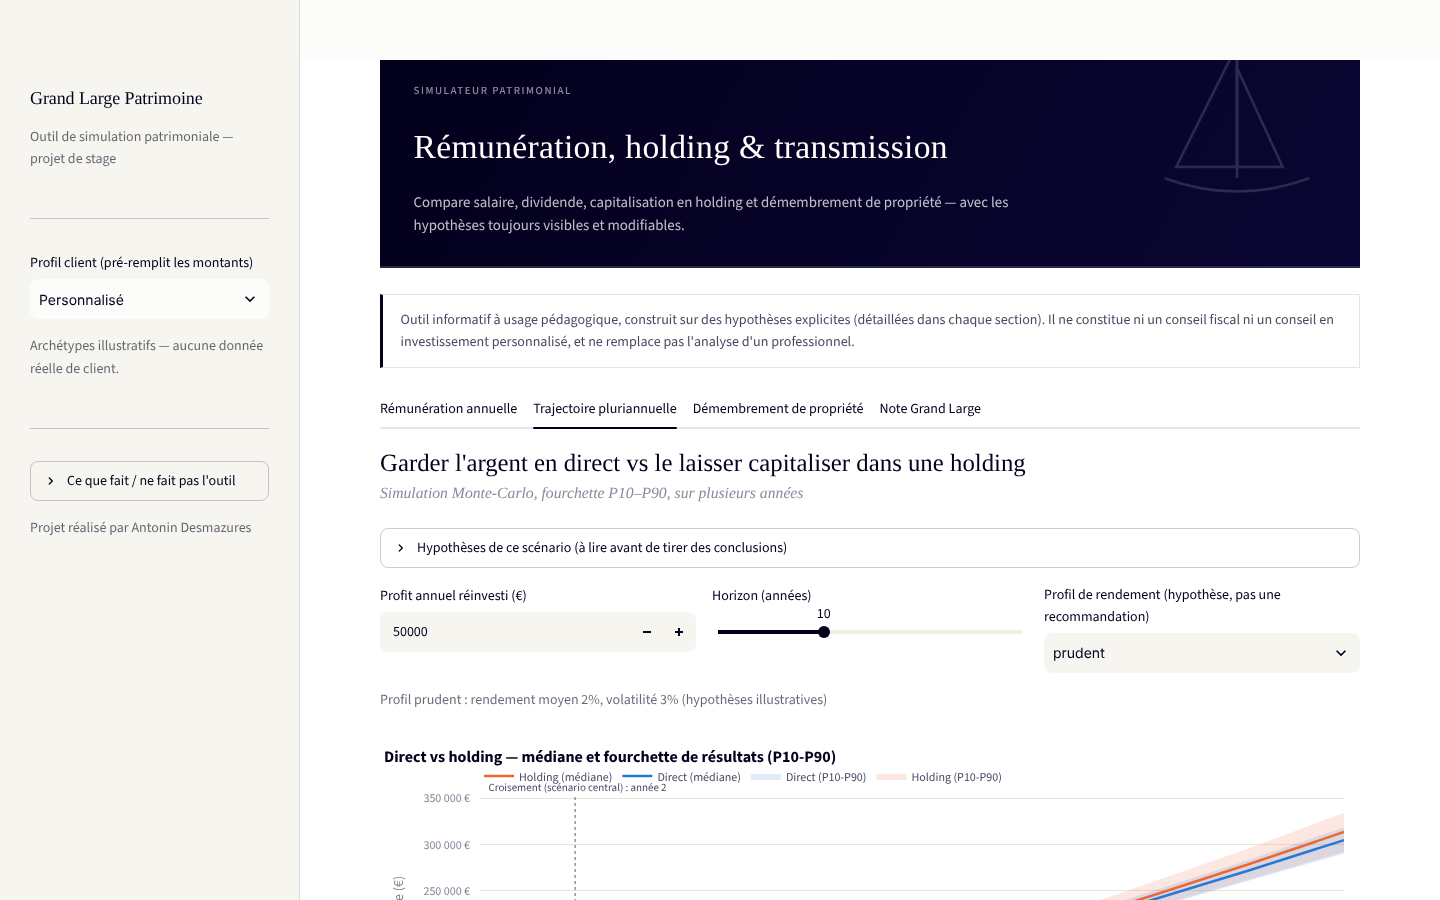
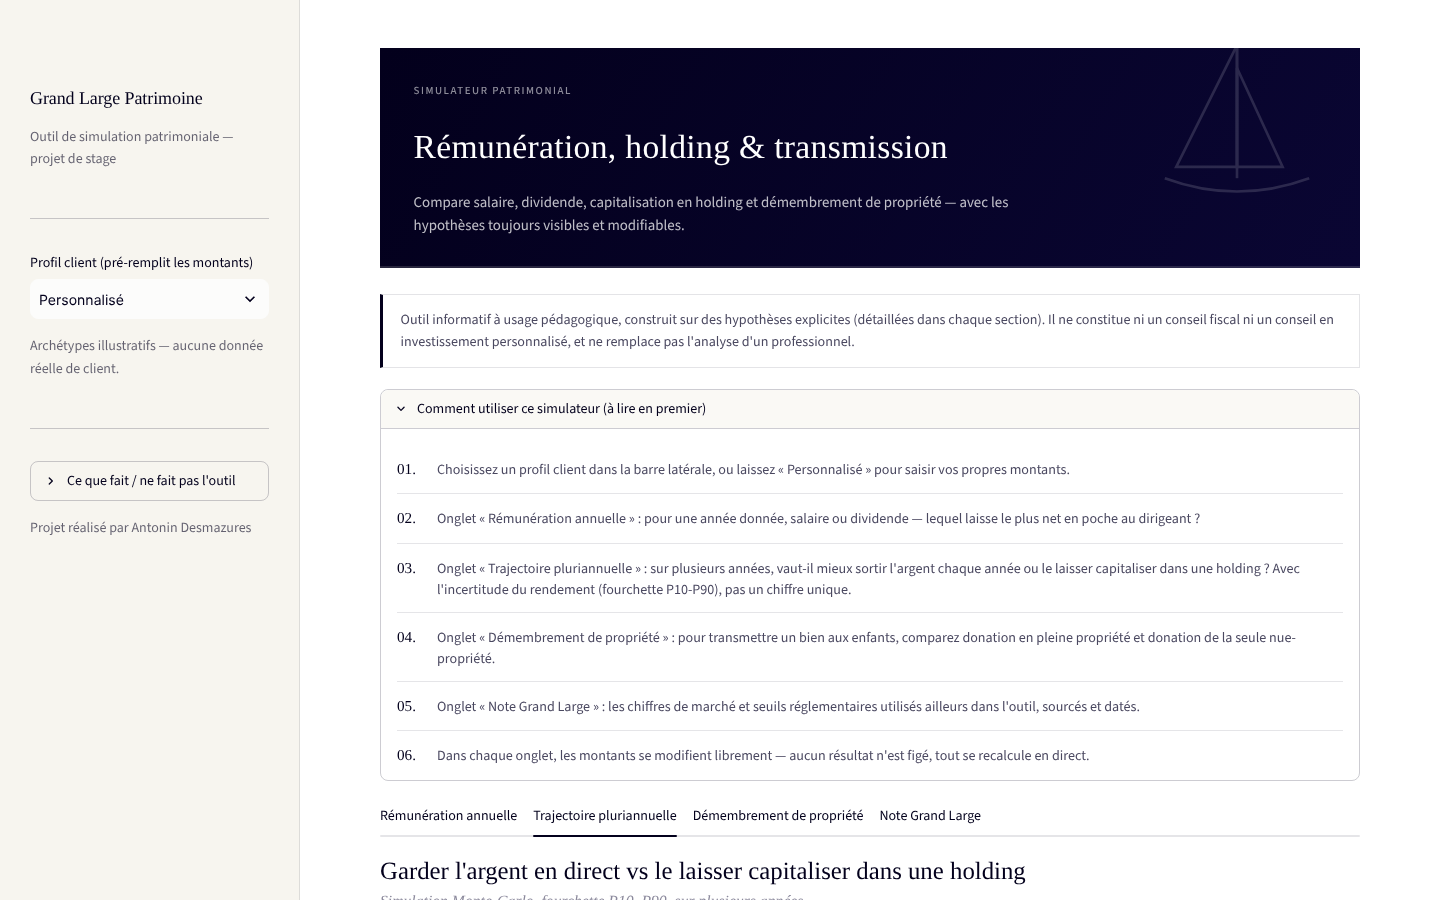
Corrige l'écart médian non formaté et le chevauchement annotation/légende ; ajoute un guide de lecture en haut de page
- fmt_euro() accepte désormais un paramètre signe (+3 787 €) : le KPI
  « Écart médian en fin d'horizon » utilisait encore un formatage brut
  Python (virgule anglo-saxonne), régression du même bug déjà corrigé
  ailleurs.
- L'annotation « Croisement » sur le graphique Direct vs Holding
  chevauchait la légende horizontale et était illisible ; repositionnée
  (marge haute augmentée, légende remontée, position gauche/droite
  adaptative selon l'année de croisement).
- En-tête Streamlit (bande au-dessus du bandeau et de la sidebar) rendu
  transparent plutôt que de laisser une bande vide visible.
- Nouveau bloc « Comment utiliser ce simulateur » déplié par défaut juste
  après le bandeau d'accueil : un enfant/onglet en une ligne, pour qu'un
  premier regard (ex. Pierre Coquantif) comprenne l'outil sans naviguer.

Claude-Session: https://claude.ai/code/session_013d8botr14ACMNDxZSsXeTk

diff --git a/app.py b/app.py
@@ -79,6 +79,17 @@ st.markdown(
     footer {{ visibility: hidden; }}
     [data-testid="stToolbar"] {{ visibility: hidden; }}
     [data-testid="stDecoration"] {{ display: none; }}
+    /* La barre d'en-tête Streamlit (au-dessus du bandeau et de la sidebar) ne
+       sert ici qu'à replier la barre latérale : on la rend transparente et
+       fine plutôt que de laisser une bande vide visible. */
+    [data-testid="stHeader"] {{
+        background: transparent;
+        box-shadow: none;
+        height: 2.75rem;
+    }}
+    [data-testid="stSidebarCollapseButton"] button {{
+        color: {NAVY};
+    }}
 
     .block-container {{ padding-top: 2rem; max-width: 1150px; }}
 
@@ -271,10 +282,13 @@ st.markdown(
 )
 
 
-def fmt_euro(montant):
-    """Formate un montant en euros à la française : espace comme séparateur
-    de milliers (40 288 €), pas de virgule anglo-saxonne (40,288 €)."""
-    return f"{montant:,.0f} €".replace(",", " ")
+def fmt_euro(montant, signe=False):
+    """Formate un montant en euros à la française : espace fine insécable
+    comme séparateur de milliers (40 288 €), pas de virgule anglo-saxonne
+    (40,288 €). signe=True ajoute un + explicite devant un montant positif
+    (+3 787 €)."""
+    gabarit = "{:+,.0f} €" if signe else "{:,.0f} €"
+    return gabarit.format(montant).replace(",", " ")
 
 
 def carte_kpi(label, valeur, couleur, sous_texte=""):
@@ -376,6 +390,16 @@ st.markdown(
     unsafe_allow_html=True,
 )
 
+with st.expander("Comment utiliser ce simulateur (à lire en premier)", expanded=True):
+    etapes_numerotees([
+        "Choisissez un profil client dans la barre latérale, ou laissez « Personnalisé » pour saisir vos propres montants.",
+        "Onglet « Rémunération annuelle » : pour une année donnée, salaire ou dividende — lequel laisse le plus net en poche au dirigeant ?",
+        "Onglet « Trajectoire pluriannuelle » : sur plusieurs années, vaut-il mieux sortir l'argent chaque année ou le laisser capitaliser dans une holding ? Avec l'incertitude du rendement (fourchette P10-P90), pas un chiffre unique.",
+        "Onglet « Démembrement de propriété » : pour transmettre un bien aux enfants, comparez donation en pleine propriété et donation de la seule nue-propriété.",
+        "Onglet « Note Grand Large » : les chiffres de marché et seuils réglementaires utilisés ailleurs dans l'outil, sourcés et datés.",
+        "Dans chaque onglet, les montants se modifient librement — aucun résultat n'est figé, tout se recalcule en direct.",
+    ])
+
 tab1, tab2, tab3, tab4 = st.tabs(
     ["Rémunération annuelle", "Trajectoire pluriannuelle", "Démembrement de propriété", "Note Grand Large"]
 )
@@ -389,8 +413,8 @@ def _mise_en_forme_graphique(fig, titre, y_titre):
         plot_bgcolor=SURFACE_CARTE,
         paper_bgcolor=SURFACE_CARTE,
         font=dict(color=ENCRE_SECONDAIRE, size=13),
-        legend=dict(orientation="h", yanchor="bottom", y=1.02, xanchor="left", x=0, font=dict(color=ENCRE_SECONDAIRE)),
-        margin=dict(t=70, l=10, r=10, b=10),
+        legend=dict(orientation="h", yanchor="bottom", y=1.1, xanchor="left", x=0, font=dict(color=ENCRE_SECONDAIRE)),
+        margin=dict(t=95, l=10, r=10, b=10),
         hovermode="x unified",
         separators=". ",  # convention française : point décimal, espace pour les milliers
     )
@@ -570,9 +594,9 @@ with tab2:
         fig2.add_vline(
             x=resultat_det["annee_croisement"],
             line=dict(color=ENCRE_MUTED, width=1.4, dash="dot"),
-            annotation_text=f"  Croisement (scénario central) : année {resultat_det['annee_croisement']}",
-            annotation_position="top",
-            annotation=dict(font=dict(size=11, color=ENCRE_SECONDAIRE)),
+            annotation_text=f"  Croisement : année {resultat_det['annee_croisement']}",
+            annotation_position="top right" if resultat_det["annee_croisement"] <= horizon / 2 else "top left",
+            annotation=dict(font=dict(size=11, color=ENCRE_SECONDAIRE), yshift=-6),
         )
 
     st.plotly_chart(fig2, width="stretch", config=CONFIG_GRAPHIQUE)
@@ -593,7 +617,7 @@ with tab2:
     with col2:
         carte_kpi(
             "Écart médian en fin d'horizon",
-            f"{ecart_mediane_final:+,.0f} €",
+            fmt_euro(ecart_mediane_final, signe=True),
             COULEUR_DIVIDENDE if ecart_mediane_final > 0 else COULEUR_SALAIRE,
             f"en faveur de {'la holding' if ecart_mediane_final > 0 else 'la détention directe'} — jamais garanti (voir P10-P90)",
         )
